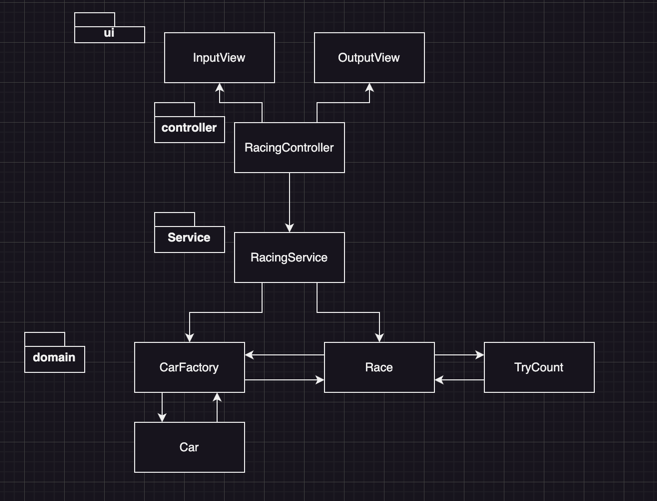
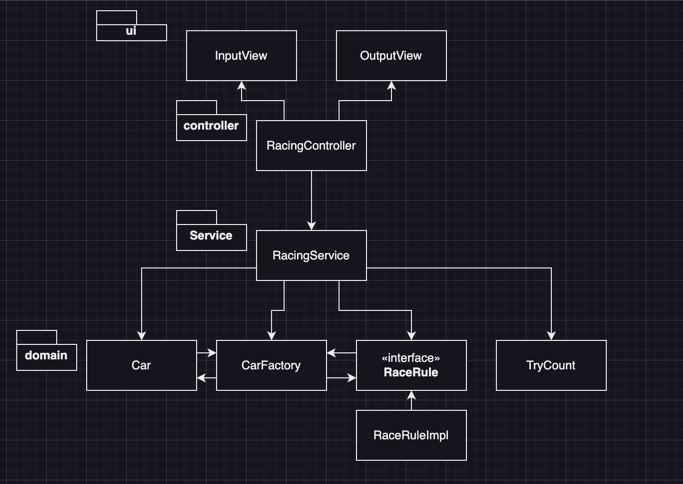
docs: 클래스 설계 변경 및 기능 명세서 변경

Changed region(s): [[0.0, 0.0, 0.9132, 0.9607], [0.2131, 0.9298, 0.3653, 0.9607], [0.1826, 0.8988, 0.2131, 0.9298]]

diff --git a/docs/README.md b/docs/README.md
@@ -55,7 +55,7 @@ jun : -----
 
 ## 📝 클래스 설계
 
-- 패키지 구성: ui, controller, service, domain, util
+- 패키지 구성: ui, controller, service, domain
 
 ![img.png](img.png)
 
@@ -65,11 +65,11 @@ jun : -----
 - RacingController(controller)
     - Service에 Input을 전달, 로직에서 반환된 응답을 뷰로 연결
 - RacingService(service)
-    - 사용자에게 필요한 기능을 실행한다. 직접 로직을 실행하진 않고 도메인에게 로직 수행을 위임한다.
+    - 사용자에게 필요한 기능을 실행한다. 도메인을 조합해 Controller가 요청한 값을 응답한다.
 - domain
     - Car: 자동차 객체, 얼마나 전진했는지와 이름을 가지고 있다.
-    - Race: CarFactory와 TryInput을 이용해, 게임을 한다.
-    - CarFactory: 레이싱 경기를 하는 Car를 List로 가지고 있다. Car를 생성하고, 관리한다.
+    - RaceRule: 게임에 관한 룰에 대한 정보를 가진 객체이다. 숫자를 생성하고, 움직일 수 있는지 반환한다.
+    - CarManager: 레이싱 경기를 하는 Car를 List로 가지고 있다. Car를 RacingRule에 맞게 상태를 변경하거나 반환한다.
     - TryInput: 시도에 대한 Input의 유효성을 검사하고, 시도를 반환한다.
 
 ## 📄기능 구현 목록
@@ -89,6 +89,7 @@ jun : -----
 - [ ] 자동차들을 생성한다.
     - [ ] 동일한 이름이 존재하는 경우 예외를 반환한다.
 - [ ] 자동차들의 상태를 반환한다.
+- [ ] 자동차들을 생성된 랜덤 값에 따라 움직인다.
 
 ### TryInput
 
@@ -96,12 +97,9 @@ jun : -----
     - [x] 문자가 포함된 입력한 경우 예외를 반환한다.
     - [x] 시도할 횟수가 0이거나 Integer.MAXVALUE 인 경우 예외를 반환한다.
 
-### Race
+### RaceRuleImpl
 
-- [ ] 경주를 진행한다.
-    - [ ] 숫자를 생성한다.
-    - [ ] 우승자를 결정하고 반환한다.
-    - [ ] 결과를 단계별로 반환한다.
+- [ ] 생성된 숫자로 이동 유무를 결정한다.
 
 ### RacingService
 
@@ -122,5 +120,5 @@ jun : -----
     - [x] 자동차 이름을 입력하는 메시지를 출력한다.
     - [x] 시도할 횟수를 입력하는 메시지를 출력한다.
 - [ ] 실행 결과를 출력한다.
-  - [ ] 단계별로 결과를 출력한다.
-  - [ ] 우승자를 출력한다.
+    - [ ] 단계별로 결과를 출력한다.
+    - [ ] 우승자를 출력한다.
